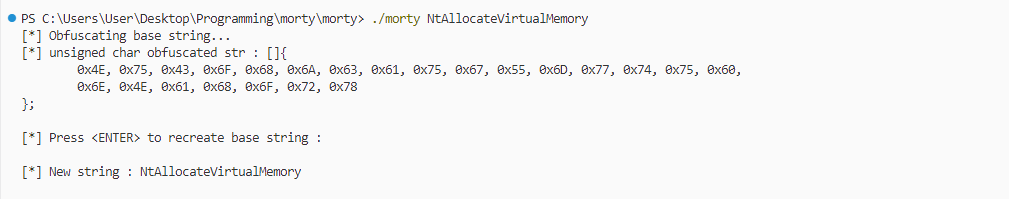
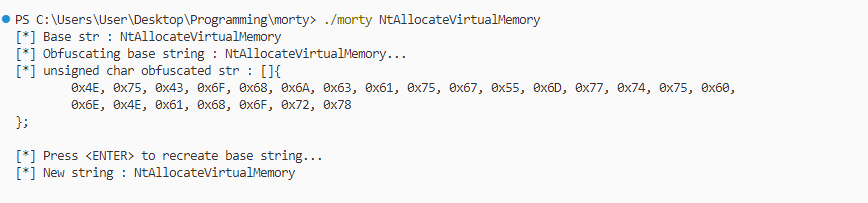
UPDATE : ending base POC

diff --git a/morty.c b/morty.c
@@ -38,7 +38,8 @@ int main(int argc, char *argv[]){
 
     LPCSTR baseStr = argv[1];
 
-    printf("[*] Obfuscating base string... \n");
+    printf("[*] Base str : %s \n", baseStr);
+    printf("[*] Obfuscating base string : %s... \n", baseStr);
     unsigned char* hex_ascii_xor = string_to_ascii(baseStr, xor_input_key, sizeof(xor_input_key));
 
     if(hex_ascii_xor == NULL){
@@ -54,7 +55,7 @@ int main(int argc, char *argv[]){
     LPSTR  clearStr = RecreateBaseString(hex_ascii_xor, len, xor_input_key, sizeof(xor_input_key));
 
     if(clearStr != NULL){
-        printf("[*] New string : %s \n", clearStr);
+        printf("[*] New string : %s \n\n\n", clearStr);
         free(clearStr);
     }
 
